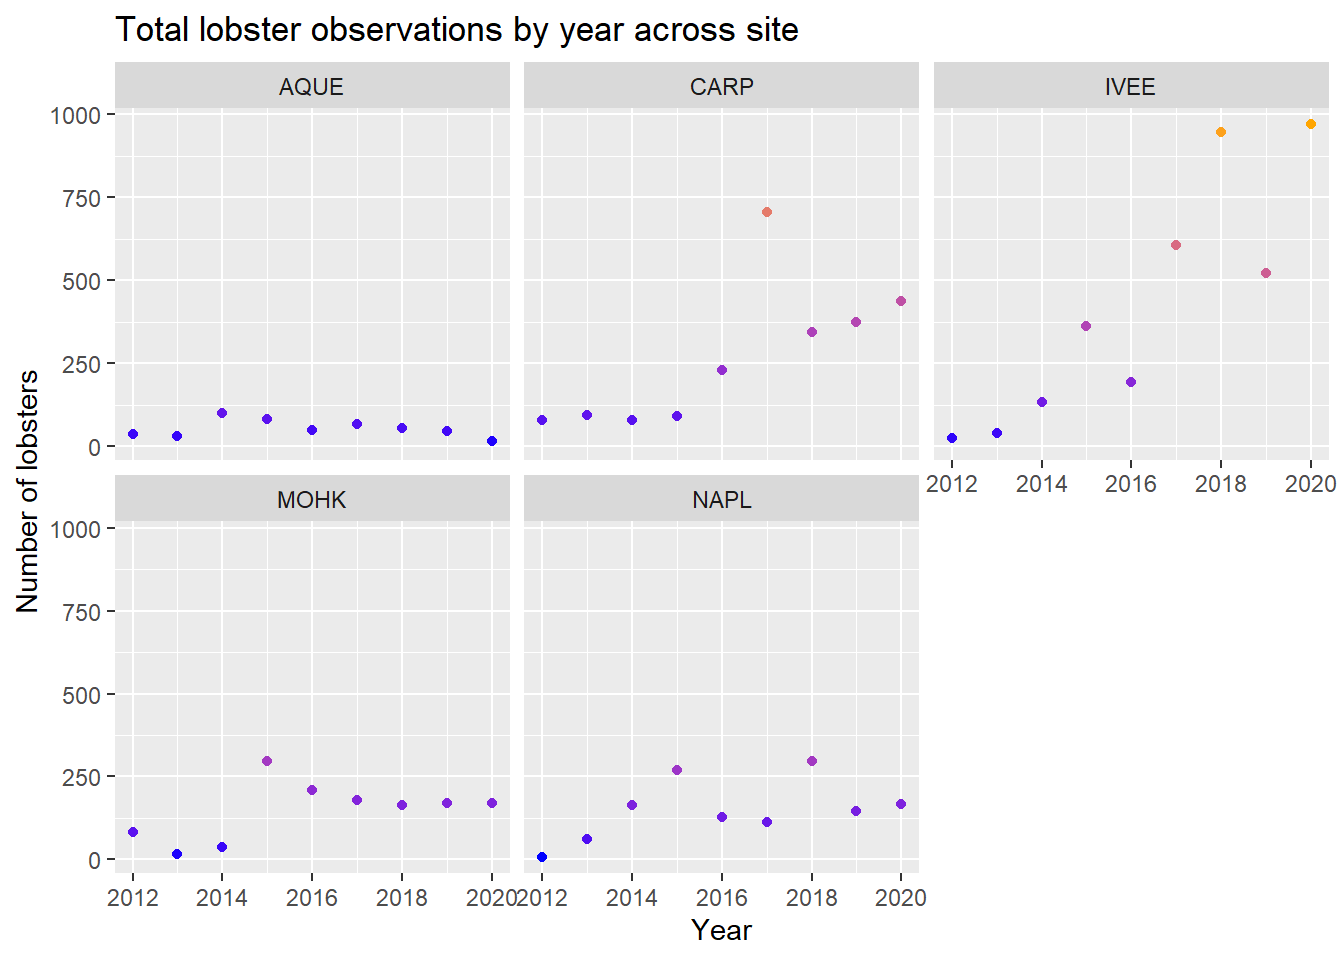
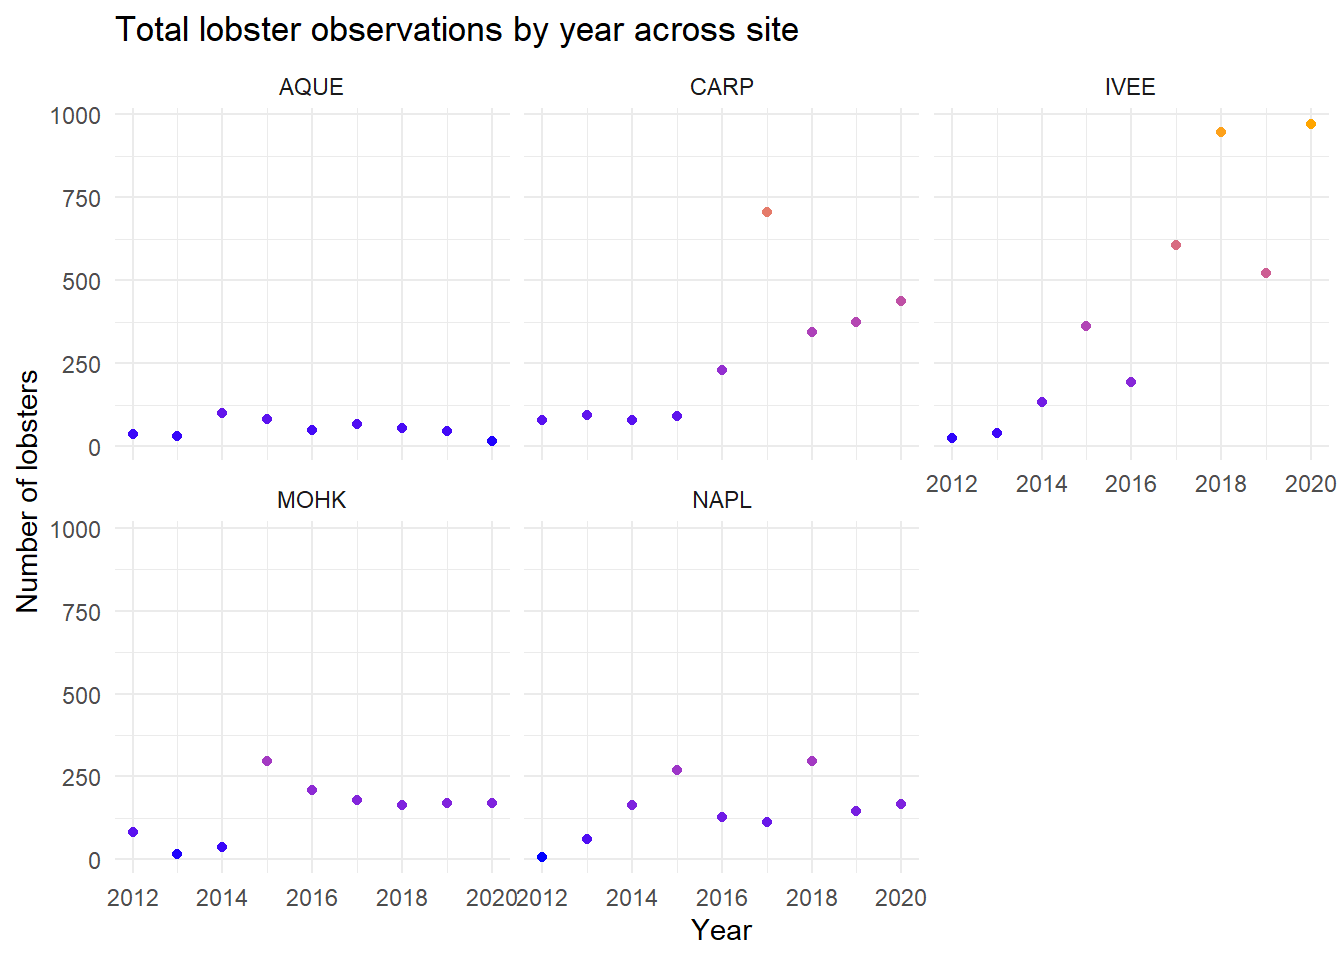
Tidying up

Changed region(s): [[0.0625, 0.0625, 1.0, 0.125], [0.0625, 0.4688, 0.6875, 0.5625]]

diff --git a/docs/lobster_exploration.html b/docs/lobster_exploration.html
@@ -8,7 +8,7 @@
 
 <meta name="author" content="Haylee Oyler">
 
-<title>Lobster exploration</title>
+<title>Lobster Exploration</title>
 <style>
 code{white-space: pre-wrap;}
 span.smallcaps{font-variant: small-caps;}
@@ -80,7 +80,7 @@ pre > code.sourceCode > span > a:first-child::before { text-decoration: underlin
 
 <header id="title-block-header" class="quarto-title-block default">
 <div class="quarto-title">
-<h1 class="title">Lobster exploration</h1>
+<h1 class="title">Lobster Exploration</h1>
 </div>
 
 
@@ -112,12 +112,12 @@ pre > code.sourceCode > span > a:first-child::before { text-decoration: underlin
 </div>
 </section>
 <section id="data-tidying-and-subsetting" class="level2">
-<h2 class="anchored" data-anchor-id="data-tidying-and-subsetting">Data tidying and subsetting</h2>
+<h2 class="anchored" data-anchor-id="data-tidying-and-subsetting">Data Tidying and Subsetting</h2>
 <div class="cell">
 <div class="sourceCode cell-code" id="cb2"><pre class="sourceCode r code-with-copy"><code class="sourceCode r"><span id="cb2-1"><a href="#cb2-1" aria-hidden="true" tabindex="-1"></a>lobsters <span class="ot">&lt;-</span> <span class="fu">read_csv</span>(<span class="fu">here</span>(<span class="st">"data"</span>,<span class="st">"Lobster_Abundance_All_Years_20210412.csv"</span>), <span class="at">na =</span> <span class="fu">c</span>(<span class="st">"-99999"</span>, <span class="st">""</span>)) <span class="sc">%&gt;%</span> </span>
 <span id="cb2-2"><a href="#cb2-2" aria-hidden="true" tabindex="-1"></a>  <span class="fu">clean_names</span>() <span class="sc">%&gt;%</span> </span>
 <span id="cb2-3"><a href="#cb2-3" aria-hidden="true" tabindex="-1"></a>  <span class="fu">uncount</span>(count)</span>
-<span id="cb2-4"><a href="#cb2-4" aria-hidden="true" tabindex="-1"></a><span class="co"># uncount turns counts back into individual observations. Helps make data tidy. </span></span></code><button title="Copy to Clipboard" class="code-copy-button"><i class="bi"></i></button></pre></div>
+<span id="cb2-4"><a href="#cb2-4" aria-hidden="true" tabindex="-1"></a><span class="co"># uncount turns count summations back into individual observations. Helps make data tidy. </span></span></code><button title="Copy to Clipboard" class="code-copy-button"><i class="bi"></i></button></pre></div>
 </div>
 <section id="find-counts-and-mean-sizes-by-site-and-year" class="level4">
 <h4 class="anchored" data-anchor-id="find-counts-and-mean-sizes-by-site-and-year">Find counts and mean sizes by site and year</h4>
@@ -133,9 +133,10 @@ pre > code.sourceCode > span > a:first-child::before { text-decoration: underlin
 <span id="cb4-2"><a href="#cb4-2" aria-hidden="true" tabindex="-1"></a>  <span class="fu">geom_point</span>(<span class="fu">aes</span>(<span class="at">color =</span> count), <span class="at">show.legend =</span> <span class="cn">FALSE</span>) <span class="sc">+</span> </span>
 <span id="cb4-3"><a href="#cb4-3" aria-hidden="true" tabindex="-1"></a>  <span class="fu">scale_color_gradient</span>(<span class="at">low =</span> <span class="st">"blue"</span>, <span class="at">high =</span> <span class="st">"orange"</span>) <span class="sc">+</span></span>
 <span id="cb4-4"><a href="#cb4-4" aria-hidden="true" tabindex="-1"></a>  <span class="fu">facet_wrap</span>(<span class="st">"site"</span>) <span class="sc">+</span></span>
-<span id="cb4-5"><a href="#cb4-5" aria-hidden="true" tabindex="-1"></a>  <span class="fu">labs</span>(<span class="at">title =</span> <span class="st">"Total lobster observations by year across site"</span>,</span>
-<span id="cb4-6"><a href="#cb4-6" aria-hidden="true" tabindex="-1"></a>       <span class="at">x =</span> <span class="st">"Year"</span>,</span>
-<span id="cb4-7"><a href="#cb4-7" aria-hidden="true" tabindex="-1"></a>       <span class="at">y =</span> <span class="st">"Number of lobsters"</span>)</span></code><button title="Copy to Clipboard" class="code-copy-button"><i class="bi"></i></button></pre></div>
+<span id="cb4-5"><a href="#cb4-5" aria-hidden="true" tabindex="-1"></a>  <span class="fu">theme_minimal</span>()<span class="sc">+</span></span>
+<span id="cb4-6"><a href="#cb4-6" aria-hidden="true" tabindex="-1"></a>  <span class="fu">labs</span>(<span class="at">title =</span> <span class="st">"Total lobster observations by year across site"</span>,</span>
+<span id="cb4-7"><a href="#cb4-7" aria-hidden="true" tabindex="-1"></a>       <span class="at">x =</span> <span class="st">"Year"</span>,</span>
+<span id="cb4-8"><a href="#cb4-8" aria-hidden="true" tabindex="-1"></a>       <span class="at">y =</span> <span class="st">"Number of lobsters"</span>)</span></code><button title="Copy to Clipboard" class="code-copy-button"><i class="bi"></i></button></pre></div>
 <div class="cell-output-display">
 <div>
 <figure class="figure">
@@ -160,9 +161,10 @@ pre > code.sourceCode > span > a:first-child::before { text-decoration: underlin
 <div class="sourceCode cell-code" id="cb6"><pre class="sourceCode r code-with-copy"><code class="sourceCode r"><span id="cb6-1"><a href="#cb6-1" aria-hidden="true" tabindex="-1"></a><span class="fu">ggplot</span>(lobs_2020, <span class="fu">aes</span>(<span class="at">x =</span> site, <span class="at">y =</span> n, <span class="at">fill =</span> legal)) <span class="sc">+</span></span>
 <span id="cb6-2"><a href="#cb6-2" aria-hidden="true" tabindex="-1"></a>  <span class="fu">geom_col</span>(<span class="at">position =</span> <span class="st">"fill"</span>) <span class="sc">+</span></span>
 <span id="cb6-3"><a href="#cb6-3" aria-hidden="true" tabindex="-1"></a>  <span class="fu">scale_fill_manual</span>(<span class="at">values =</span> (<span class="fu">c</span>(<span class="st">"pink2"</span>,<span class="st">"purple3"</span>))) <span class="sc">+</span></span>
-<span id="cb6-4"><a href="#cb6-4" aria-hidden="true" tabindex="-1"></a>  <span class="fu">labs</span>(<span class="at">title =</span> <span class="st">"Proportion of legal and illegal lobster catch by site"</span>, </span>
-<span id="cb6-5"><a href="#cb6-5" aria-hidden="true" tabindex="-1"></a>       <span class="at">x =</span> <span class="st">"Site"</span>, </span>
-<span id="cb6-6"><a href="#cb6-6" aria-hidden="true" tabindex="-1"></a>       <span class="at">y =</span> <span class="st">"Proportion"</span>)</span></code><button title="Copy to Clipboard" class="code-copy-button"><i class="bi"></i></button></pre></div>
+<span id="cb6-4"><a href="#cb6-4" aria-hidden="true" tabindex="-1"></a>  <span class="fu">theme_minimal</span>() <span class="sc">+</span></span>
+<span id="cb6-5"><a href="#cb6-5" aria-hidden="true" tabindex="-1"></a>  <span class="fu">labs</span>(<span class="at">title =</span> <span class="st">"Proportion of legal and illegal lobster catch by site"</span>, </span>
+<span id="cb6-6"><a href="#cb6-6" aria-hidden="true" tabindex="-1"></a>       <span class="at">x =</span> <span class="st">"Site"</span>, </span>
+<span id="cb6-7"><a href="#cb6-7" aria-hidden="true" tabindex="-1"></a>       <span class="at">y =</span> <span class="st">"Proportion"</span>)</span></code><button title="Copy to Clipboard" class="code-copy-button"><i class="bi"></i></button></pre></div>
 <div class="cell-output-display">
 <div>
 <figure class="figure">
@@ -175,7 +177,7 @@ pre > code.sourceCode > span > a:first-child::before { text-decoration: underlin
 </section>
 </section>
 <section id="random-lobster-wrangling" class="level2">
-<h2 class="anchored" data-anchor-id="random-lobster-wrangling">Random lobster Wrangling</h2>
+<h2 class="anchored" data-anchor-id="random-lobster-wrangling">Random Lobster Wrangling</h2>
 <div class="cell">
 <div class="sourceCode cell-code" id="cb7"><pre class="sourceCode r code-with-copy"><code class="sourceCode r"><span id="cb7-1"><a href="#cb7-1" aria-hidden="true" tabindex="-1"></a><span class="co"># Filter ----</span></span>
 <span id="cb7-2"><a href="#cb7-2" aria-hidden="true" tabindex="-1"></a>ex_a <span class="ot">&lt;-</span> lobsters <span class="sc">%&gt;%</span> </span>
